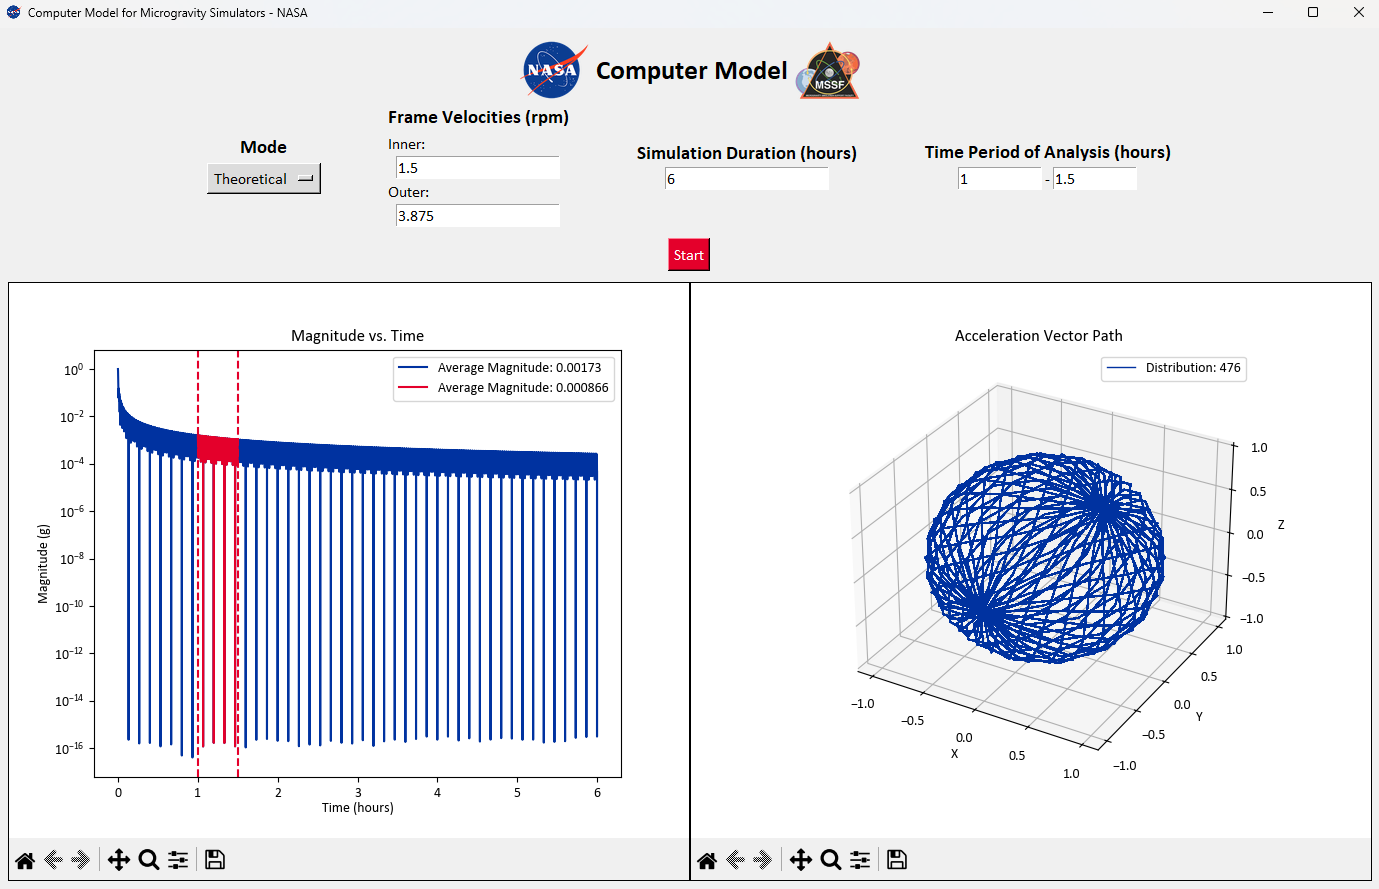
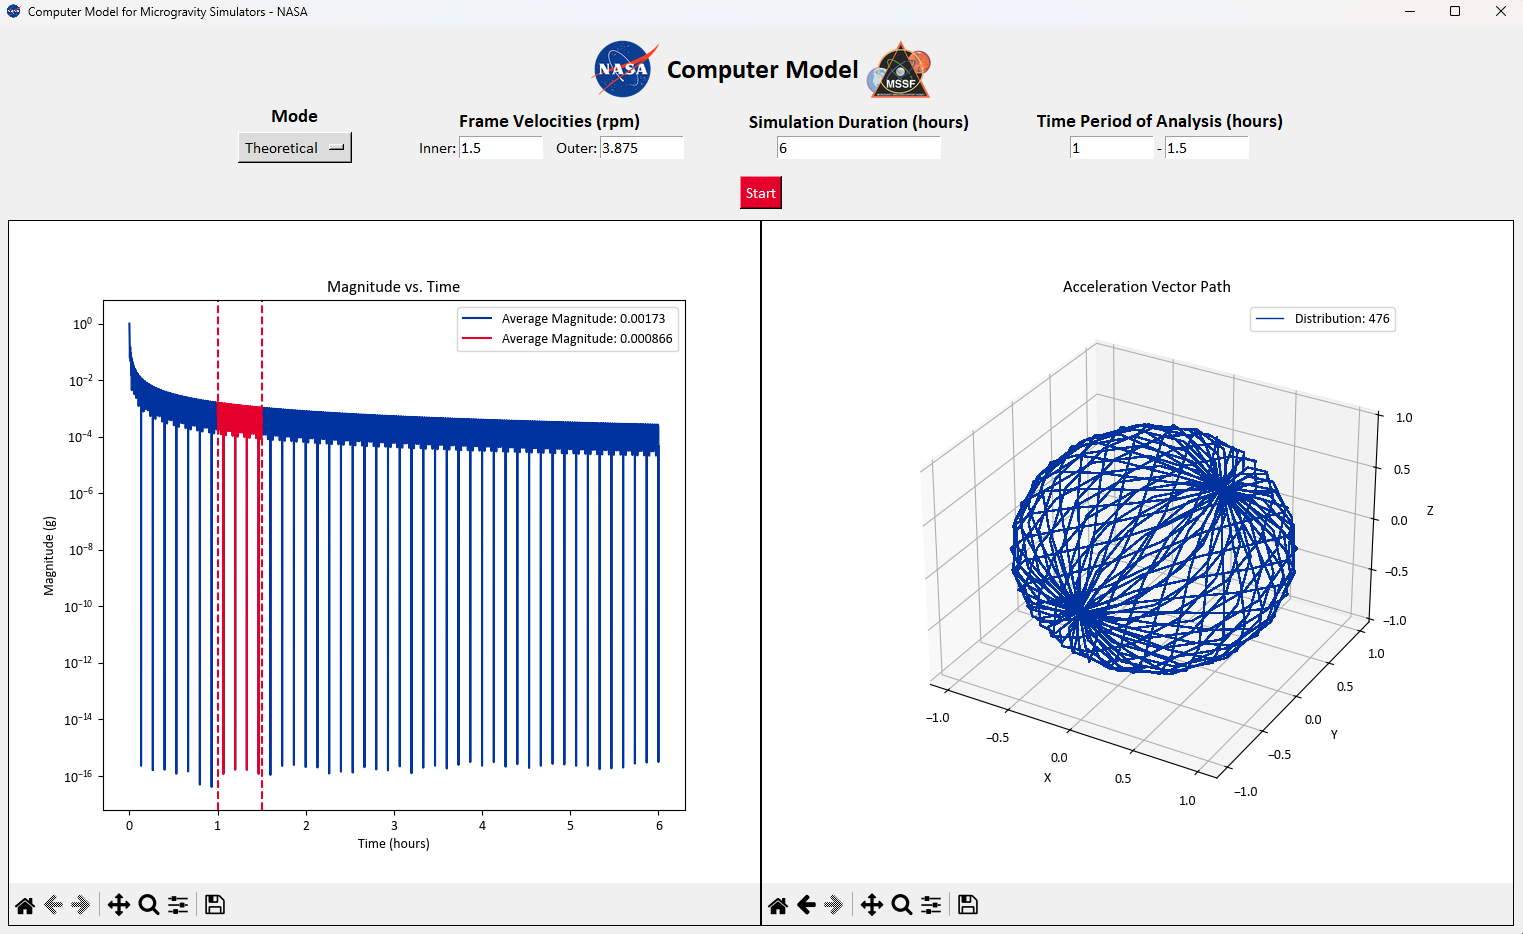
Adjusted layout

diff --git a/gui.py b/gui.py
@@ -70,15 +70,18 @@ class GUI:
         operating_label = tk.Label(self.operating_frame, text="Frame Velocities (rpm)", font=category_font_style)
         operating_label.pack()
 
-        self.innerV_label = tk.Label(self.operating_frame, text="Inner:", font=font_style)
-        self.innerV_label.pack(anchor=tk.W)
-        self.innerV_entry = tk.Entry(self.operating_frame, font=font_style)
-        self.innerV_entry.pack()
+        operating_input_frame = tk.Frame(self.operating_frame)
+        operating_input_frame.pack()
 
-        self.outerV_label = tk.Label(self.operating_frame, text="Outer:", font=font_style)
-        self.outerV_label.pack(anchor=tk.W)
-        self.outerV_entry = tk.Entry(self.operating_frame, font=font_style)
-        self.outerV_entry.pack()
+        self.innerV_label = tk.Label(operating_input_frame, text="Inner:", font=font_style)
+        self.innerV_label.pack(side=tk.LEFT)
+        self.innerV_entry = tk.Entry(operating_input_frame, font=font_style, width=10)
+        self.innerV_entry.pack(side=tk.LEFT)
+
+        self.outerV_label = tk.Label(operating_input_frame, text="Outer:", font=font_style)
+        self.outerV_label.pack(side=tk.LEFT, padx=(10, 0))
+        self.outerV_entry = tk.Entry(operating_input_frame, font=font_style, width=10)
+        self.outerV_entry.pack(side=tk.LEFT)
 
         self.duration_frame = tk.Frame(center_frame, padx=1, pady=1)
         self.duration_frame.grid(row=0, column=2, padx=30) 
@@ -151,8 +154,8 @@ class GUI:
         self.ax = self.figure.add_subplot(1, 1, 1)
         self.ax.set_yscale('log')
         self.ax.set_title("Magnitude vs. Time")
-        self.ax.set_xlabel('Time (hours)', labelpad=2)
-        self.ax.set_ylabel('Magnitude (g)', labelpad=2)
+        self.ax.set_xlabel('Time (hours)')
+        self.ax.set_ylabel('Magnitude (g)')
         self.canvas = FigureCanvasTkAgg(self.figure, self.magnitude_frame)
         self.canvas.get_tk_widget().pack(fill=tk.BOTH, expand=True)
 
@@ -162,9 +165,9 @@ class GUI:
 
         self.path_figure = plt.Figure()
         self.path_ax = self.path_figure.add_subplot(1, 1, 1, projection='3d')
-        self.path_ax.set_xlabel('X', labelpad=2)
-        self.path_ax.set_ylabel('Y', labelpad=2)
-        self.path_ax.set_zlabel('Z', labelpad=2)
+        self.path_ax.set_xlabel('X')
+        self.path_ax.set_ylabel('Y')
+        self.path_ax.set_zlabel('Z')
         ticks = np.arange(-1.0, 1.5, 0.5)
         self.path_ax.set_xticks(ticks)
         self.path_ax.set_yticks(ticks)
@@ -207,16 +210,16 @@ class GUI:
         self.ax.clear()
         self.ax.set_yscale('log')
         self.ax.set_title("Magnitude vs. Time")
-        self.ax.set_xlabel('Time (hours)', labelpad=2)
-        self.ax.set_ylabel('Magnitude (g)', labelpad=2)
+        self.ax.set_xlabel('Time (hours)')
+        self.ax.set_ylabel('Magnitude (g)')
         self.ax.set_yticks([10**(-i) for i in range(0, 17, 2)])
         self.ax.set_ylim(10**-17, 10**0) 
         self.canvas.draw()
 
         self.path_ax.clear()
-        self.path_ax.set_xlabel('X', labelpad=2)
-        self.path_ax.set_ylabel('Y', labelpad=2)
-        self.path_ax.set_zlabel('Z', labelpad=2)
+        self.path_ax.set_xlabel('X')
+        self.path_ax.set_ylabel('Y')
+        self.path_ax.set_zlabel('Z')
         ticks = np.arange(-1.0, 1.5, 0.5)
         self.path_ax.set_xticks(ticks)
         self.path_ax.set_yticks(ticks)
@@ -284,15 +287,15 @@ class GUI:
         self.ax.plot(time_in_hours[startSeg:endSeg], magnitude[startSeg:endSeg], color='#E4002B', label="Average Magnitude: " + f"{avgMagAnalysis:.3g}")
 
         self.ax.legend()
-        self.ax.set_xlabel('Time (hours)', labelpad=2)
-        self.ax.set_ylabel('Magnitude (g)', labelpad=2)
+        self.ax.set_xlabel('Time (hours)')
+        self.ax.set_ylabel('Magnitude (g)')
         self.canvas.draw()
 
         self.path_ax.clear()
         self.path_ax.plot(x, y, z, color='#0032A0', linewidth=1)
-        self.path_ax.set_xlabel('X', labelpad=2)
-        self.path_ax.set_ylabel('Y', labelpad=2)
-        self.path_ax.set_zlabel('Z', labelpad=2)
+        self.path_ax.set_xlabel('X')
+        self.path_ax.set_ylabel('Y')
+        self.path_ax.set_zlabel('Z')
         ticks = np.arange(-1.0, 1.5, 0.5)
         self.path_ax.set_xticks(ticks)
         self.path_ax.set_yticks(ticks)
@@ -369,16 +372,16 @@ class GUI:
         self.ax.axvline(x=endAnalysis, color='#E4002B', linestyle='--')
         self.ax.plot(fTime[startIndex:endIndex], magnitude[startIndex:endIndex], color='#E4002B', label="Average Magnitude: " + f"{avgMagAnalysis:.3g}")
         self.ax.legend()
-        self.ax.set_xlabel('Time (hours)', labelpad=2)
-        self.ax.set_ylabel('Magnitude (g)', labelpad=2)
+        self.ax.set_xlabel('Time (hours)')
+        self.ax.set_ylabel('Magnitude (g)')
 
         self.canvas.draw()
 
         self.path_ax.clear()
         self.path_ax.plot(analysis.x, analysis.y, analysis.z, color='#0032A0', linewidth=1)
-        self.path_ax.set_xlabel('X', labelpad=2)
-        self.path_ax.set_ylabel('Y', labelpad=2)
-        self.path_ax.set_zlabel('Z', labelpad=2)
+        self.path_ax.set_xlabel('X')
+        self.path_ax.set_ylabel('Y')
+        self.path_ax.set_zlabel('Z')
         ticks = np.arange(-1.0, 1.5, 0.5)
         self.path_ax.set_xticks(ticks)
         self.path_ax.set_yticks(ticks)
